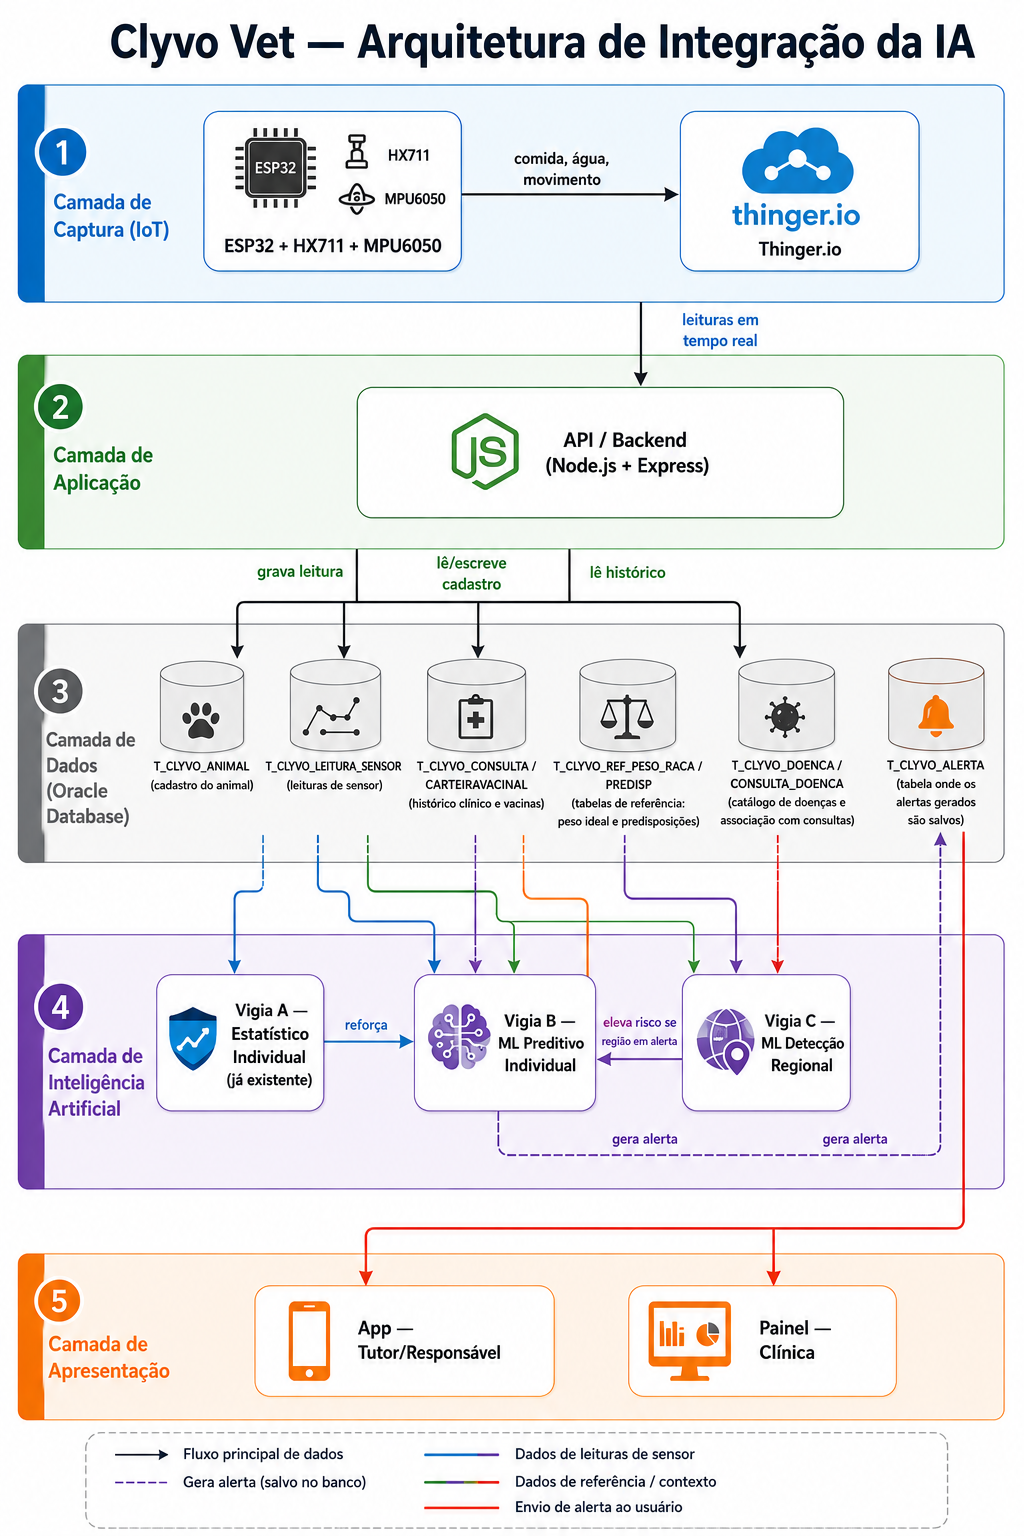
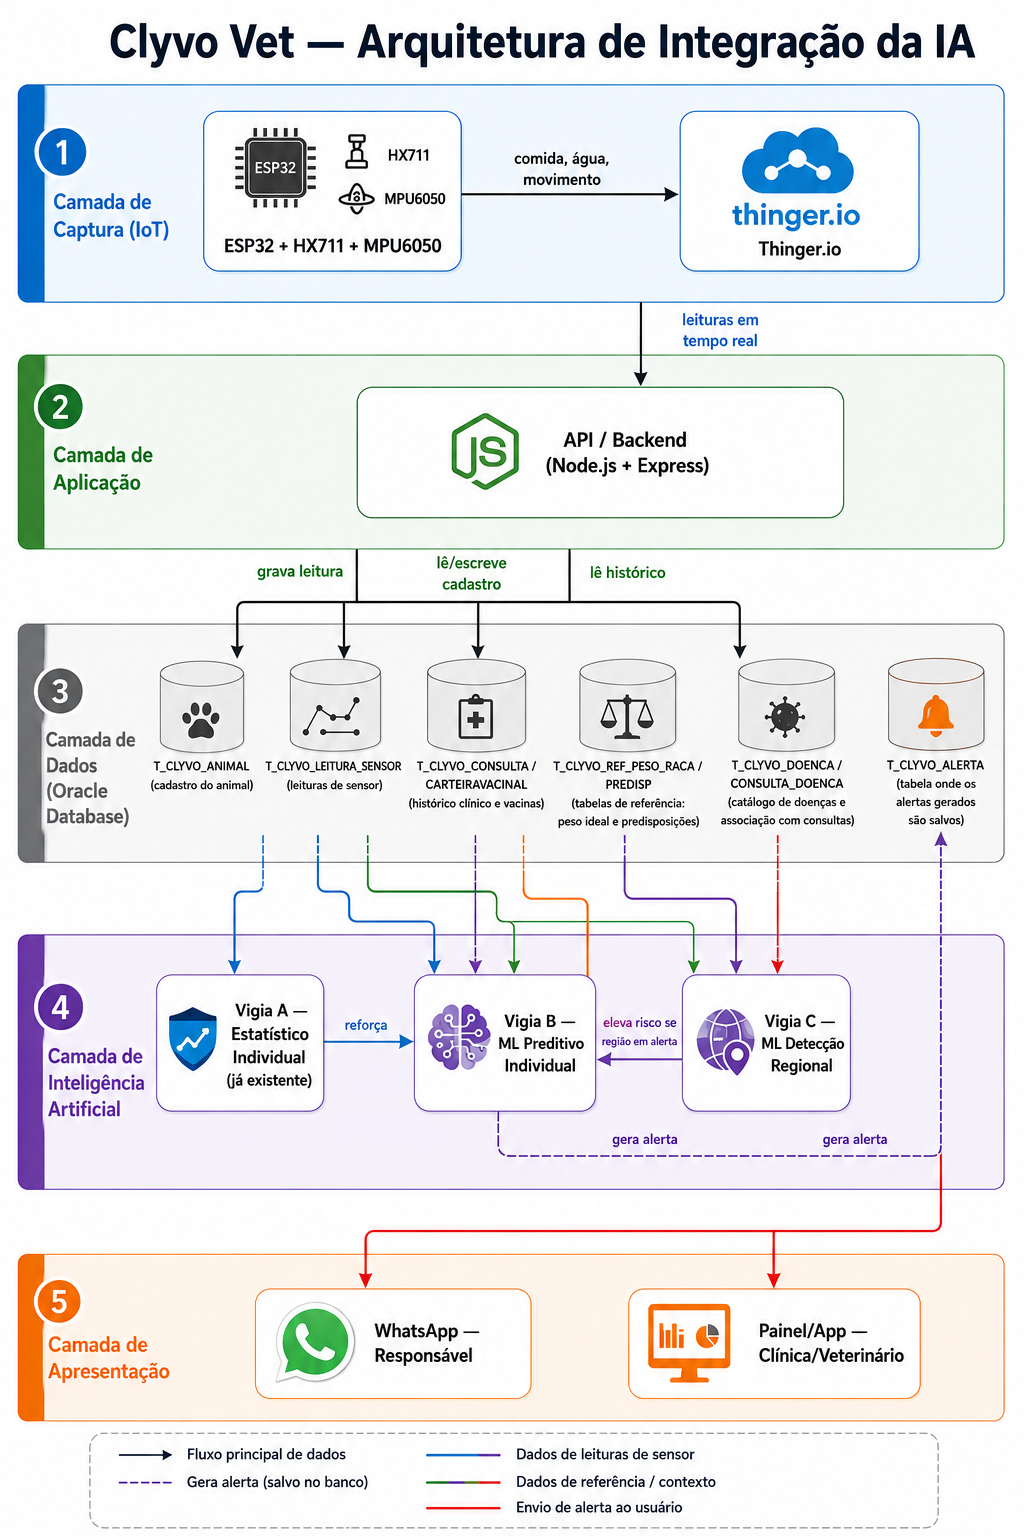
final

diff --git a/README.md b/README.md
@@ -3,6 +3,12 @@
 > Sistema de gestão veterinária centralizada para acompanhamento contínuo da 
 > saúde de animais, utilizando IoT, IoB & Generative IA
 
+[![Assista ao Pitch do Projeto](https://youtube.com)](https://www.youtube.com/watch?v=mwg3Do74-24)
+[Clique aqui para assistir ao vídeo do Pitch no YouTube](https://www.youtube.com/watch?v=mwg3Do74-24)
+
+
+---
+
 ## Sumário
 
 1. [Visão geral](#1-visão-geral)
@@ -89,7 +95,7 @@ Responsáveis de animais frequentemente não percebem mudanças graduais na saú
 - **Falta de referência técnica.** O responsável não sabe o que é "normal" para a espécie, raça, idade e peso do seu animal. Um consumo de água que parece baixo pode ser perfeitamente normal para aquele perfil, e vice-versa.
 - **Falta de consultas rotineiras.** Sem sintomas visíveis, é comum que o acompanhamento veterinário preventivo seja adiado, reduzindo a chance de detecção precoce.
 
-Além do problema individual, existe um problema maior ainda: **não existe hoje uma forma rápida de identificar quando uma doença está se espalhando numa região**, mesmo quando várias clínicas parceiras já estão vendo casos parecidos. Cada clínica enxerga apenas os próprios pacientes, sem visibilidade agregada. E se depender de dados epidemiológicos fornecidos por prefeituras ou governo, na prática eles costumam ser bem demorados, o que impede uma ação rápida.
+Além do problema individual, existe um problema maior ainda: **não existe hoje uma forma rápida de identificar quando uma doença está se espalhando numa região**, mesmo quando várias clínicas parceiras já estão vendo casos parecidos. Cada clínica enxerga apenas os próprios pacientes, sem visibilidade agregada. E se depender de dados epidemiológicos fornecidos por prefeituras ou governo, na prática eles costumam ser bem demorados, o que impede uma ação rápida. Quando esses boletins existem, a ideia é que eles sirvam como reforço e confirmação do alerta que a Clyvo já gerou antes, não como a única fonte de informação.
 
 ### 2.2 O que já existe, e o que essa fase completa
 
@@ -109,6 +115,8 @@ O que essa fase adiciona é justamente isso: fazer o sistema **entender** os dad
 | **Responsável** | Recebe alertas antecipados e personalizados, sem precisar interpretar dados técnicos. O sistema traduz o sinal em algo rápido e de fácil entendimento, como "considere agendar uma consulta" ou "risco de obesidade identificado" |
 | **Clínica/Veterinário** | Ganha visibilidade sobre pacientes que precisam de atenção antes de chegarem em estado grave, e passa a receber alertas agregados de vigilância epidemiológica regional, possibilitando ação preventiva em vez de puramente reativa |
 | **Animal** | Tem problemas potencialmente identificados mais cedo, quando o tratamento tende a ser mais simples, menos invasivo e mais barato. Recebe um cuidado mais adequado ao seu perfil individual, não um padrão genérico aplicado a todos os animais |
+
+---
 
 ## 3. Abordagem de IA escolhida e justificativa técnica
 
@@ -356,3 +364,6 @@ Essa mesma diferença vale, por extensão, para os Vigias B e C: a lógica de co
 3. **Geração do dataset de treino:** um script em Python vai consultar as tabelas de referência do banco (`T_CLYVO_REF_PESO_RACA`, `T_CLYVO_PREDISP_ESPECIE`, `T_CLYVO_PREDISP_RACA`) e gerar um conjunto de dados simulado, no qual cada linha representa um animal fictício com peso, raça, idade, consumo e movimento, já rotulado com o nível de risco esperado. É esse conjunto de dados que o modelo vai usar pra aprender os padrões.
 4. **Treinamento dos modelos:** o mesmo script (ou um script separado) vai treinar o modelo do Vigia B (classificação, usando Árvore de Decisão ou Random Forest, que aprende a associar o perfil e os sinais do animal ao nível de risco) e o modelo do Vigia C (detecção de padrões fora do esperado, que aprende qual é o número normal de casos de uma doença numa região e sinaliza quando foge muito disso). Os dois modelos treinados ficam salvos para uso posterior.
 5. **Geração de alertas:** os modelos treinados vão consumir os dados reais do banco (leituras de sensor, cadastro, consultas) e aplicar as 14 correlações explicadas na Seção 6, uma por uma, pra decidir o nível de risco de cada animal e de cada região. O resultado final é gravado na tabela `T_CLYVO_ALERTA`.
+
+
+
